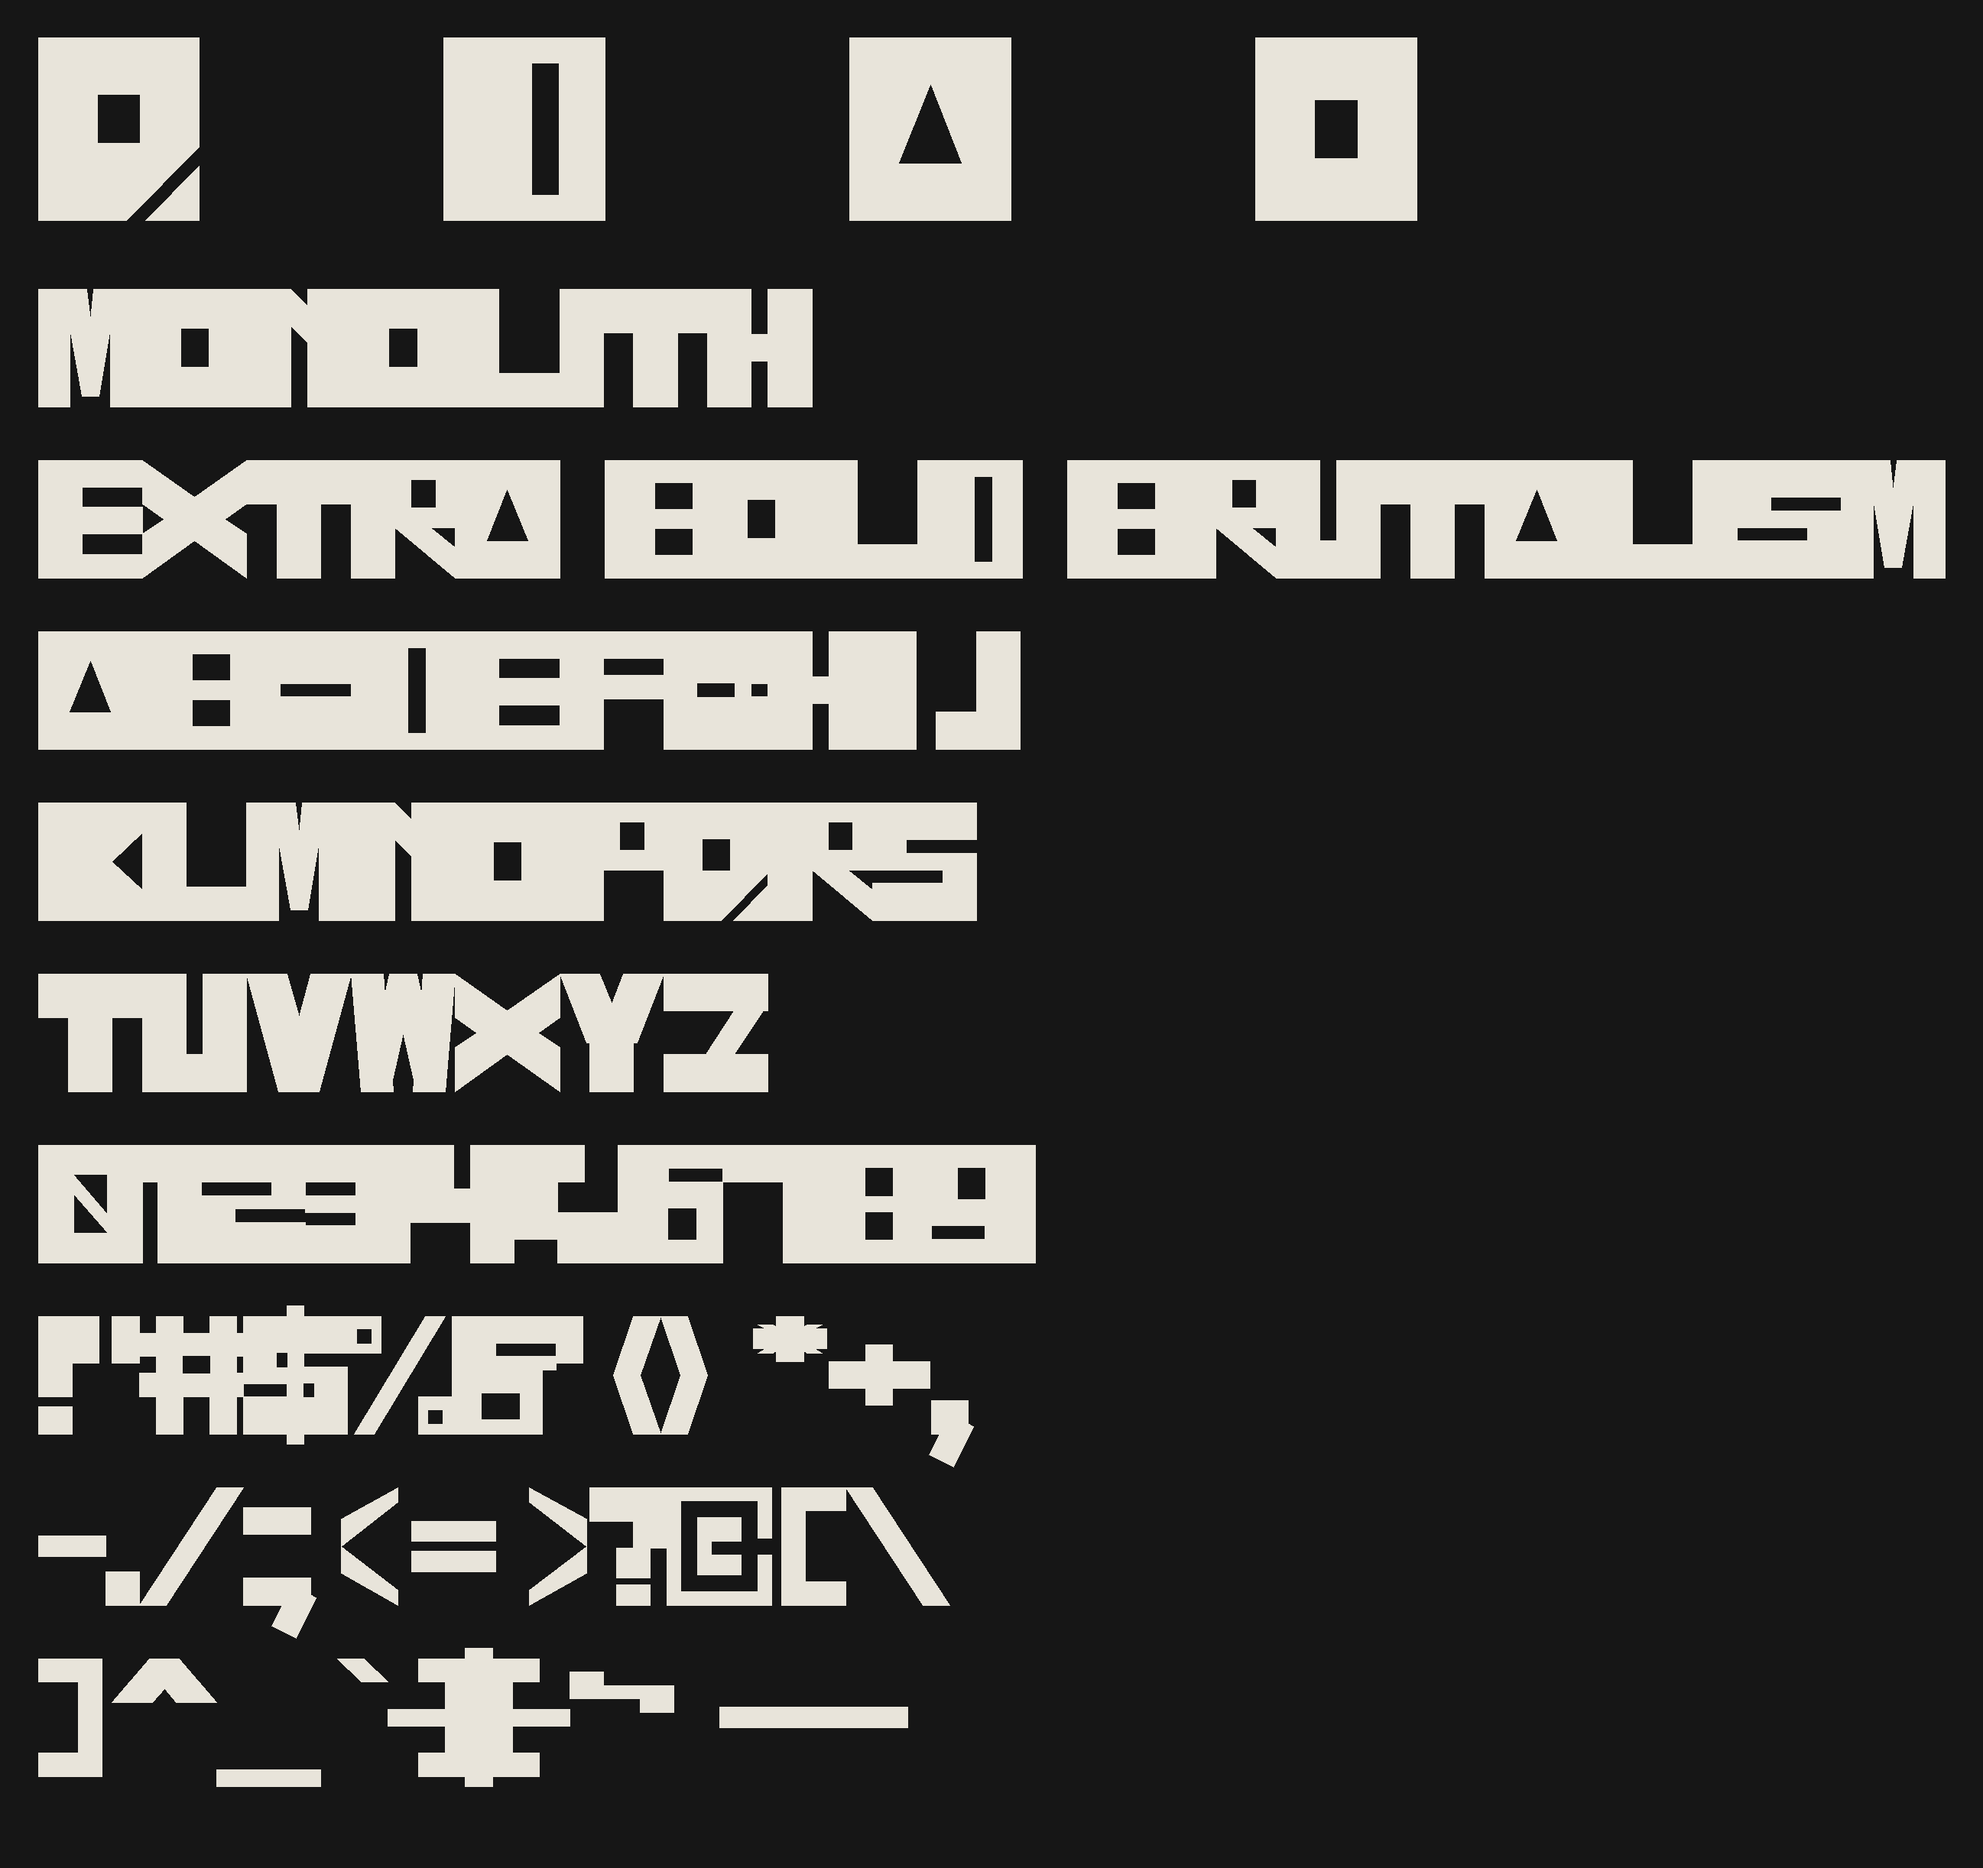
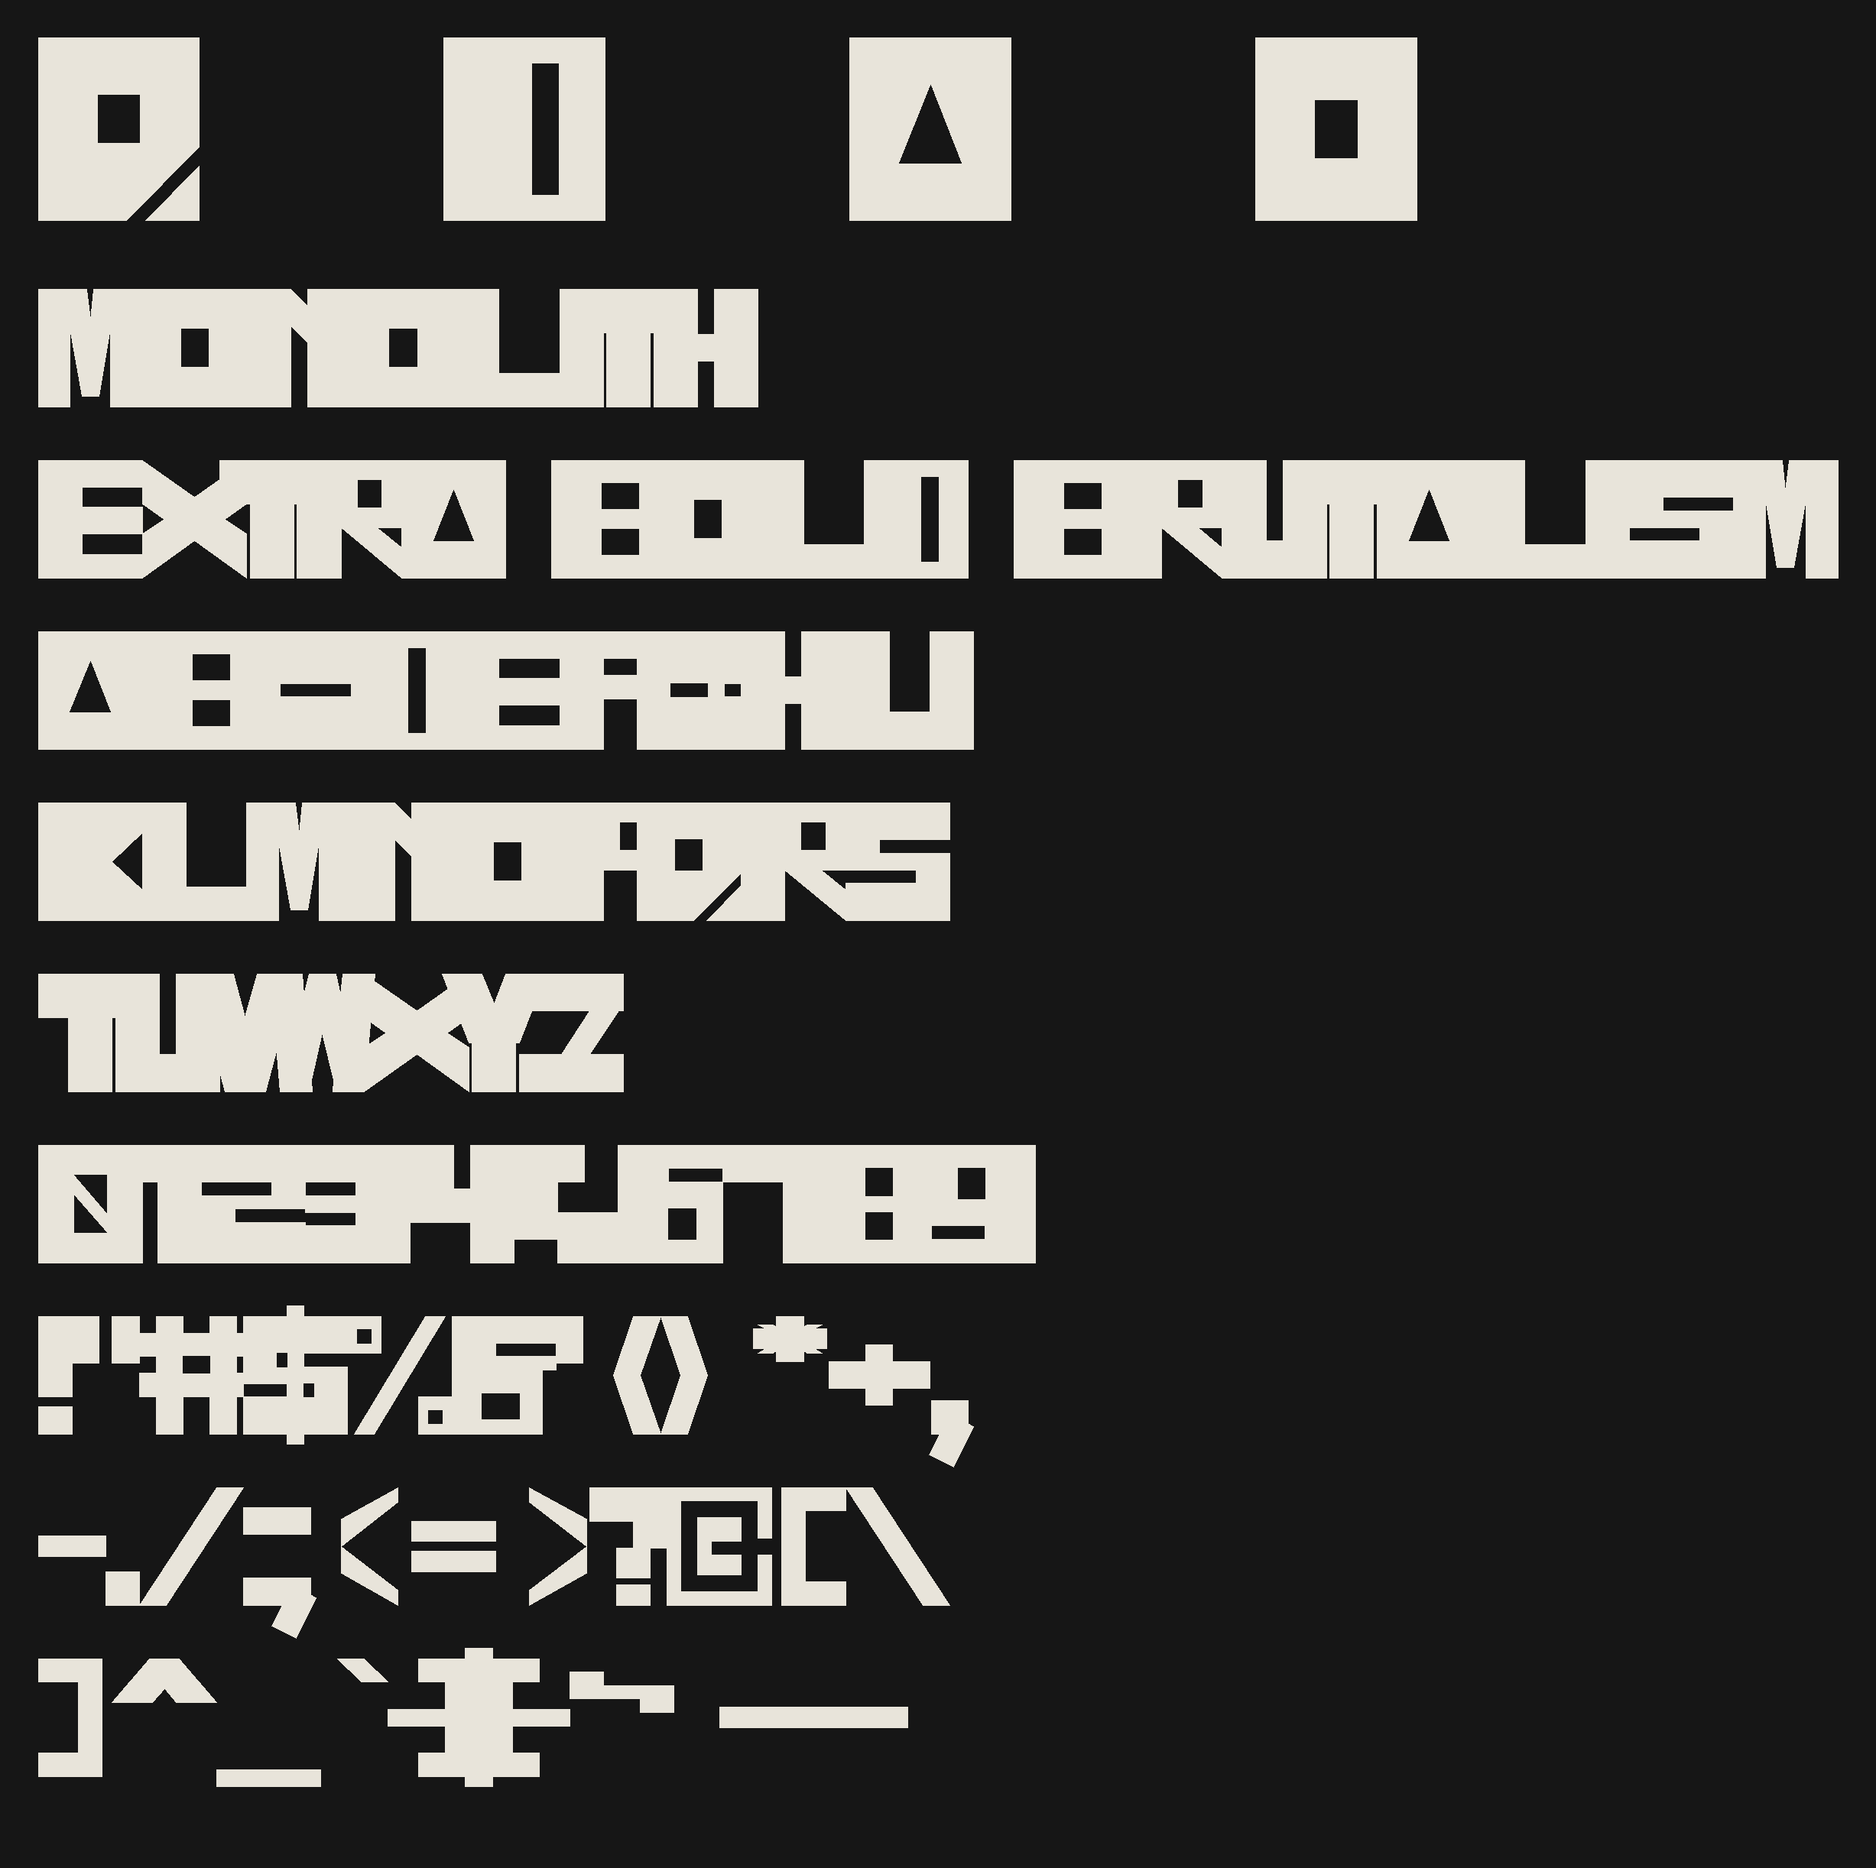
feat: kern-aware specimen rendering, glyph-id-sorted GPOS coverage, rebuilt artifacts

diff --git a/src/monolith/specimen.py b/src/monolith/specimen.py
@@ -1,4 +1,5 @@
 """Render the MONOLITH specimen PNGs (tight + loose ss01) from the exported TTF."""
+
 from collections.abc import Callable, Sequence
 from pathlib import Path
 
@@ -7,6 +8,7 @@ from fontTools.ttLib import TTFont
 from PIL import Image, ImageChops, ImageDraw
 
 from monolith.design import Point
+from monolith.kerning import kern_for
 from monolith.variable import instance_at_spac
 
 REPO_ROOT = Path(__file__).resolve().parents[2]
@@ -29,8 +31,7 @@ def signed_area(c: Sequence[Point]) -> float:
 
 
 class SpecimenRenderer:
-    def __init__(self, font_path: str | Path,
-                 font: TTFont | None = None) -> None:
+    def __init__(self, font_path: str | Path, font: TTFont | None = None) -> None:
         font = font if font is not None else TTFont(str(font_path))
         self.gs = font.getGlyphSet()
         self.cmap = font.getBestCmap()
@@ -54,11 +55,24 @@ class SpecimenRenderer:
         self._cache[gname] = cs
         return cs
 
-    def render(self, showcase: str, rows: Sequence[str],
-               resolver: Callable[["SpecimenRenderer", str], str | None],
-               space_adv: float, show_scale: float, scale: float,
-               show_track: float, track: float, out: str | Path) -> None:
-        """resolver(renderer, ch) -> glyph name; spaces advance by space_adv."""
+    def render(
+        self,
+        showcase: str,
+        rows: Sequence[str],
+        resolver: Callable[["SpecimenRenderer", str], str | None],
+        space_adv: float,
+        show_scale: float,
+        scale: float,
+        show_track: float,
+        track: float,
+        out: str | Path,
+        kerns: bool = False,
+    ) -> None:
+        """resolver(renderer, ch) -> glyph name; spaces advance by space_adv.
+
+        kerns=True applies the seam-metric pair kerns between consecutive
+        non-space characters (the ss01 `.spaced` render leaves them off).
+        """
         gs = self.gs
 
         def gname_of(ch: str) -> str | None:
@@ -67,27 +81,44 @@ class SpecimenRenderer:
         def adv(gname: str | None) -> float:
             return gs[gname].width if gname in gs else 600
 
+        def kern_delta(prev: str, ch: str, sc: float) -> float:
+            return kern_for(prev, ch) * sc if kerns else 0.0
+
         def line_extent(text: str, sc: float, tr: float) -> float:
             w = 0
+            prev = ""
             for ch in text:
+                w += kern_delta(prev, ch, sc)
+                prev = ch
                 w += (space_adv if ch == " " else adv(gname_of(ch))) * sc + tr
             return w - (tr if text else 0)
 
         margin = 50
         line_h = int(700 * scale) + 70
         show_line_h = int(700 * show_scale) + 90
-        W = int(max([line_extent(s, show_scale, show_track) for s in showcase] +
-                    [line_extent(r, scale, track) for r in rows])) + 2 * margin
+        W = (
+            int(
+                max(
+                    [line_extent(s, show_scale, show_track) for s in showcase]
+                    + [line_extent(r, scale, track) for r in rows]
+                )
+            )
+            + 2 * margin
+        )
         H = margin + show_line_h + len(rows) * line_h + margin
 
         img = Image.new("RGB", (W, H), BG)
         mask = Image.new("L", (W, H), 0)
 
         def draw_line(text: str, x: float, y_base: float, sc: float, tr: float) -> float:
+            prev = ""
             for ch in text:
                 if ch == " ":
                     x += space_adv * sc + tr
+                    prev = ""
                     continue
+                x += kern_delta(prev, ch, sc)
+                prev = ch
                 gname = resolver(self, ch)
                 if gname is None:
                     continue
@@ -99,8 +130,10 @@ class SpecimenRenderer:
                     tmp = Image.new("L", (W, H), 0)
                     td = ImageDraw.Draw(tmp)
                     for i, c in enumerate(cs):
-                        td.polygon([(x + p[0] * sc, y_base - p[1] * sc) for p in c],
-                                   fill=0 if (areas[i] < 0) != (areas[body] < 0) else 255)
+                        td.polygon(
+                            [(x + p[0] * sc, y_base - p[1] * sc) for p in c],
+                            fill=0 if (areas[i] < 0) != (areas[body] < 0) else 255,
+                        )
                     mask.paste(ImageChops.lighter(mask.crop((0, 0, W, H)), tmp), (0, 0))
                 x += adv(gname) * sc + tr
             return x
@@ -132,40 +165,55 @@ def spaced(r: SpecimenRenderer, ch: str) -> str | None:
 def build_rows(cmap: dict[int, str]) -> list[str]:
     # every non-alphanumeric, non-space character the font maps
     PUNCT = "".join(chr(c) for c in sorted(cmap) if c >= 33 and not chr(c).isalnum())
-    PUNCT_ROWS = [PUNCT[i:i + 12] for i in range(0, len(PUNCT), 12)]
-    return ["MONOLITH",
-            "EXTRA BOLD BRUTALISM",
-            "ABCDEFGHIJ",
-            "KLMNOPQRS",
-            "TUVWXYZ",
-            "0123456789"] + PUNCT_ROWS
+    PUNCT_ROWS = [PUNCT[i : i + 12] for i in range(0, len(PUNCT), 12)]
+    return [
+        "MONOLITH",
+        "EXTRA BOLD BRUTALISM",
+        "ABCDEFGHIJ",
+        "KLMNOPQRS",
+        "TUVWXYZ",
+        "0123456789",
+    ] + PUNCT_ROWS
 
 
-def main(font_path: str | Path | None = None,
-         out_dir: str | Path | None = None,
-         spac: int | None = None,
-         variable_font_path: str | Path | None = None) -> None:
+def main(
+    font_path: str | Path | None = None,
+    out_dir: str | Path | None = None,
+    spac: int | None = None,
+    variable_font_path: str | Path | None = None,
+) -> None:
     font_path = Path(font_path) if font_path else DEFAULT_FONT
     out_dir = Path(out_dir) if out_dir else DEFAULT_OUT_DIR
     if not font_path.exists():
-        raise SystemExit(f"font not found: {font_path}\n"
-                         "Export MONOLITH-ExtraBold.ttf from Glyphs first (see README).")
+        raise SystemExit(
+            f"font not found: {font_path}\n"
+            "Export MONOLITH-ExtraBold.ttf from Glyphs first (see README)."
+        )
     r = SpecimenRenderer(font_path)
     rows = build_rows(r.cmap)
     out_dir.mkdir(parents=True, exist_ok=True)
-    # tight variant: font's default tight advances, extra negative tracking
-    r.render(SHOWCASE, rows, tight, 240, 0.34, 0.22, 140, -40,
-             out_dir / "specimen.png")
+    # tight variant: default tight advances, pair kerns, extra negative tracking
+    r.render(SHOWCASE, rows, tight, 240, 0.34, 0.22, 140, -40, out_dir / "specimen.png", kerns=True)
     # spaced variant: .spaced alternates (+130 advance), no extra tracking
-    r.render(SHOWCASE, rows, spaced, 240 + 130, 0.34, 0.22, 140, 0,
-             out_dir / "specimen-spaced.png")
+    r.render(SHOWCASE, rows, spaced, 240 + 130, 0.34, 0.22, 140, 0, out_dir / "specimen-spaced.png")
     if spac is not None:
         # SPAC-axis variant: advances baked from the variable font at `spac`
         vpath = Path(variable_font_path) if variable_font_path else DEFAULT_VARIABLE_FONT
         if not vpath.exists():
-            raise SystemExit(f"variable font not found: {vpath}\n"
-                             "Build it first: uv run monolith-variable")
+            raise SystemExit(
+                f"variable font not found: {vpath}\nBuild it first: uv run monolith-variable"
+            )
         inst = instance_at_spac(vpath, spac)
         rv = SpecimenRenderer(vpath, font=inst)
-        rv.render(SHOWCASE, rows, tight, rv.gs["space"].width, 0.34, 0.22, 140, 0,
-                  out_dir / f"specimen-spac{spac}.png")
+        rv.render(
+            SHOWCASE,
+            rows,
+            tight,
+            rv.gs["space"].width,
+            0.34,
+            0.22,
+            140,
+            0,
+            out_dir / f"specimen-spac{spac}.png",
+            kerns=True,
+        )

diff --git a/tests/test_specimen.py b/tests/test_specimen.py
@@ -1,7 +1,9 @@
 """Specimen renderer smoke test. Skips when the font hasn't been exported."""
+
 from pathlib import Path
 
 import pytest
+from PIL import Image
 
 REPO_ROOT = Path(__file__).resolve().parents[1]
 FONT = REPO_ROOT / "fonts" / "MONOLITH-ExtraBold.ttf"
@@ -32,3 +34,18 @@ def test_render_spac_row(tmp_path: Path) -> None:
     r.render("Q", ["QDA"], tight, inst["hmtx"]["space"][0], 0.34, 0.22, 140, 0, out)
     assert out.exists()
     assert out.stat().st_size > 0
+
+
+def test_kerns_narrow_rendered_lines(tmp_path: Path) -> None:
+    if not FONT.exists():
+        pytest.skip("font not built yet (export from Glyphs first)")
+    from monolith.specimen import SpecimenRenderer, tight
+
+    r = SpecimenRenderer(FONT)
+    out_plain = tmp_path / "plain.png"
+    out_kern = tmp_path / "kern.png"
+    r.render("AV", ["AV"], tight, 240, 0.22, 0.22, 0, 0, out_plain)
+    r.render("AV", ["AV"], tight, 240, 0.22, 0.22, 0, 0, out_kern, kerns=True)
+    # AV kerns -160 units; at scale 0.22 the canvas shrinks by ~35 px
+    delta = Image.open(out_plain).size[0] - Image.open(out_kern).size[0]
+    assert delta in (35, 36)

diff --git a/src/monolith/variable.py b/src/monolith/variable.py
@@ -106,22 +106,25 @@ def apply_kerning(font: TTFont) -> None:
     """
     if _kern_feature_present(font):
         return
-    glyph_order = set(font.getGlyphOrder())
+    order = font.getGlyphOrder()
+    order_index = {g: i for i, g in enumerate(order)}
     pairs: dict[str, list[tuple[str, int]]] = {}
     for (lg, rg), v in KERN_PAIRS.items():
-        if lg in glyph_order and rg in glyph_order:
+        if lg in order_index and rg in order_index:
             pairs.setdefault(lg, []).append((rg, v))
     if not pairs:
         return
 
+    # coverage must be sorted by glyph id, not name
+    lefts = sorted(pairs, key=order_index.__getitem__)
     pair_pos = otTables.PairPos()
     pair_pos.Format = 1
     pair_pos.ValueFormat1 = 0x0004  # XAdvance only
     pair_pos.ValueFormat2 = 0x0000
     pair_pos.Coverage = otTables.Coverage()
-    pair_pos.Coverage.glyphs = sorted(pairs)
+    pair_pos.Coverage.glyphs = lefts
     pair_pos.PairSet = []
-    for lg in sorted(pairs):
+    for lg in lefts:
         pair_set = otTables.PairSet()
         pair_set.PairValueRecord = []
         for rg, v in sorted(pairs[lg]):
